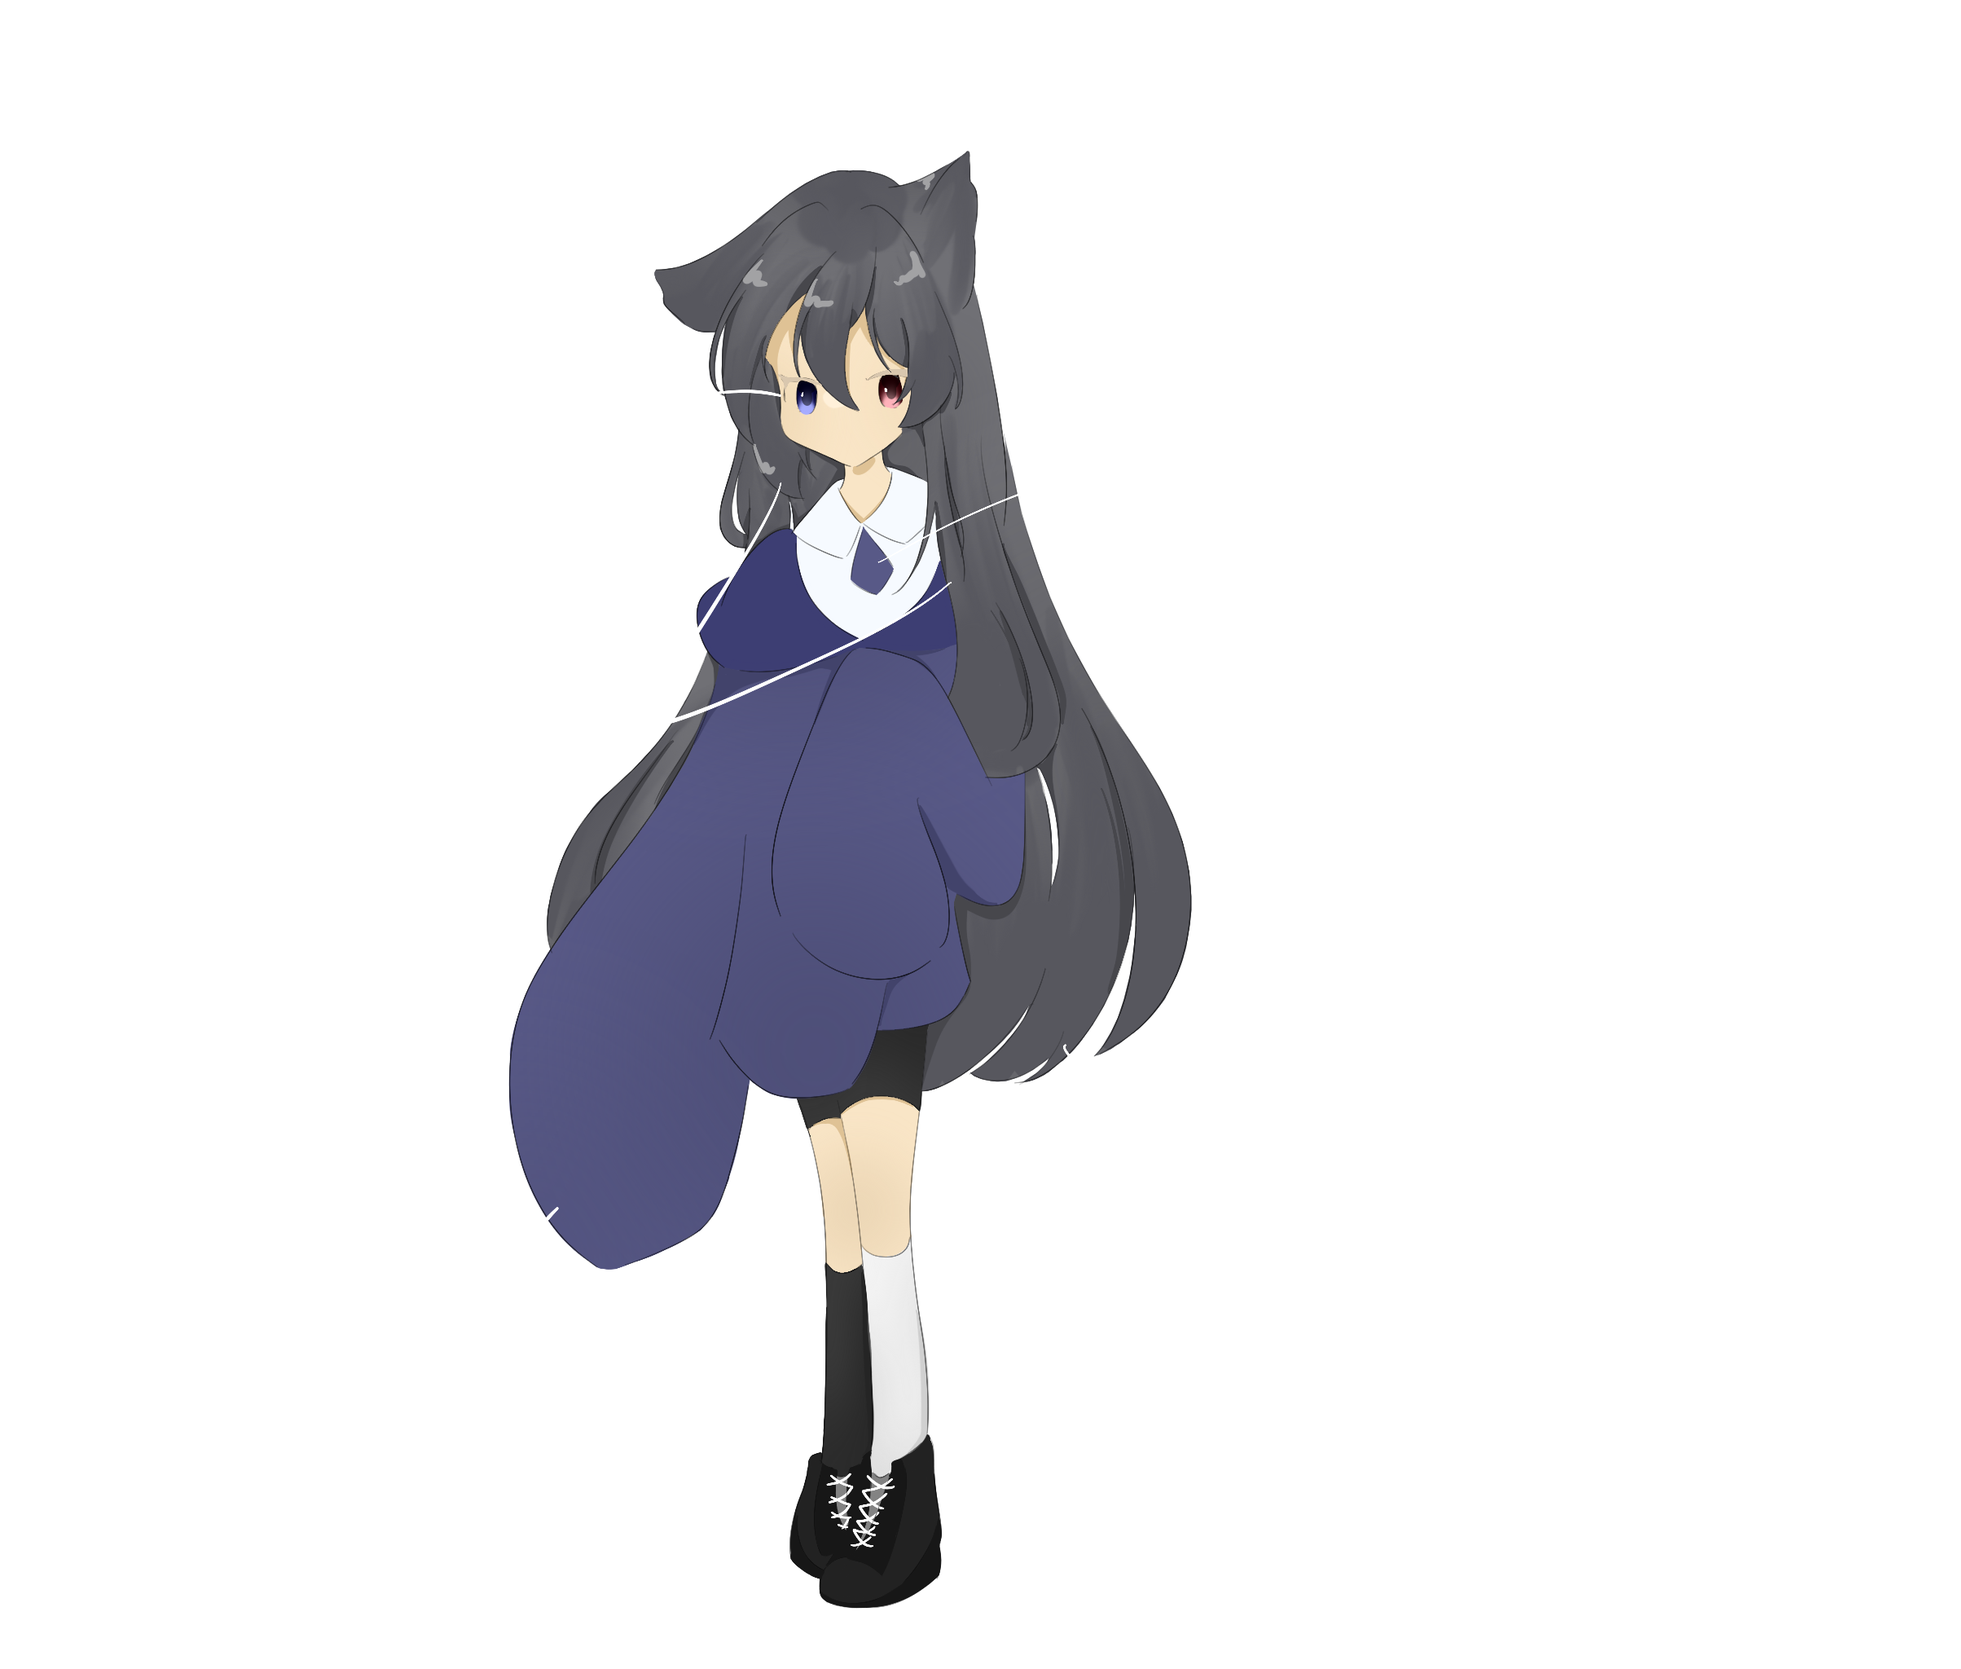
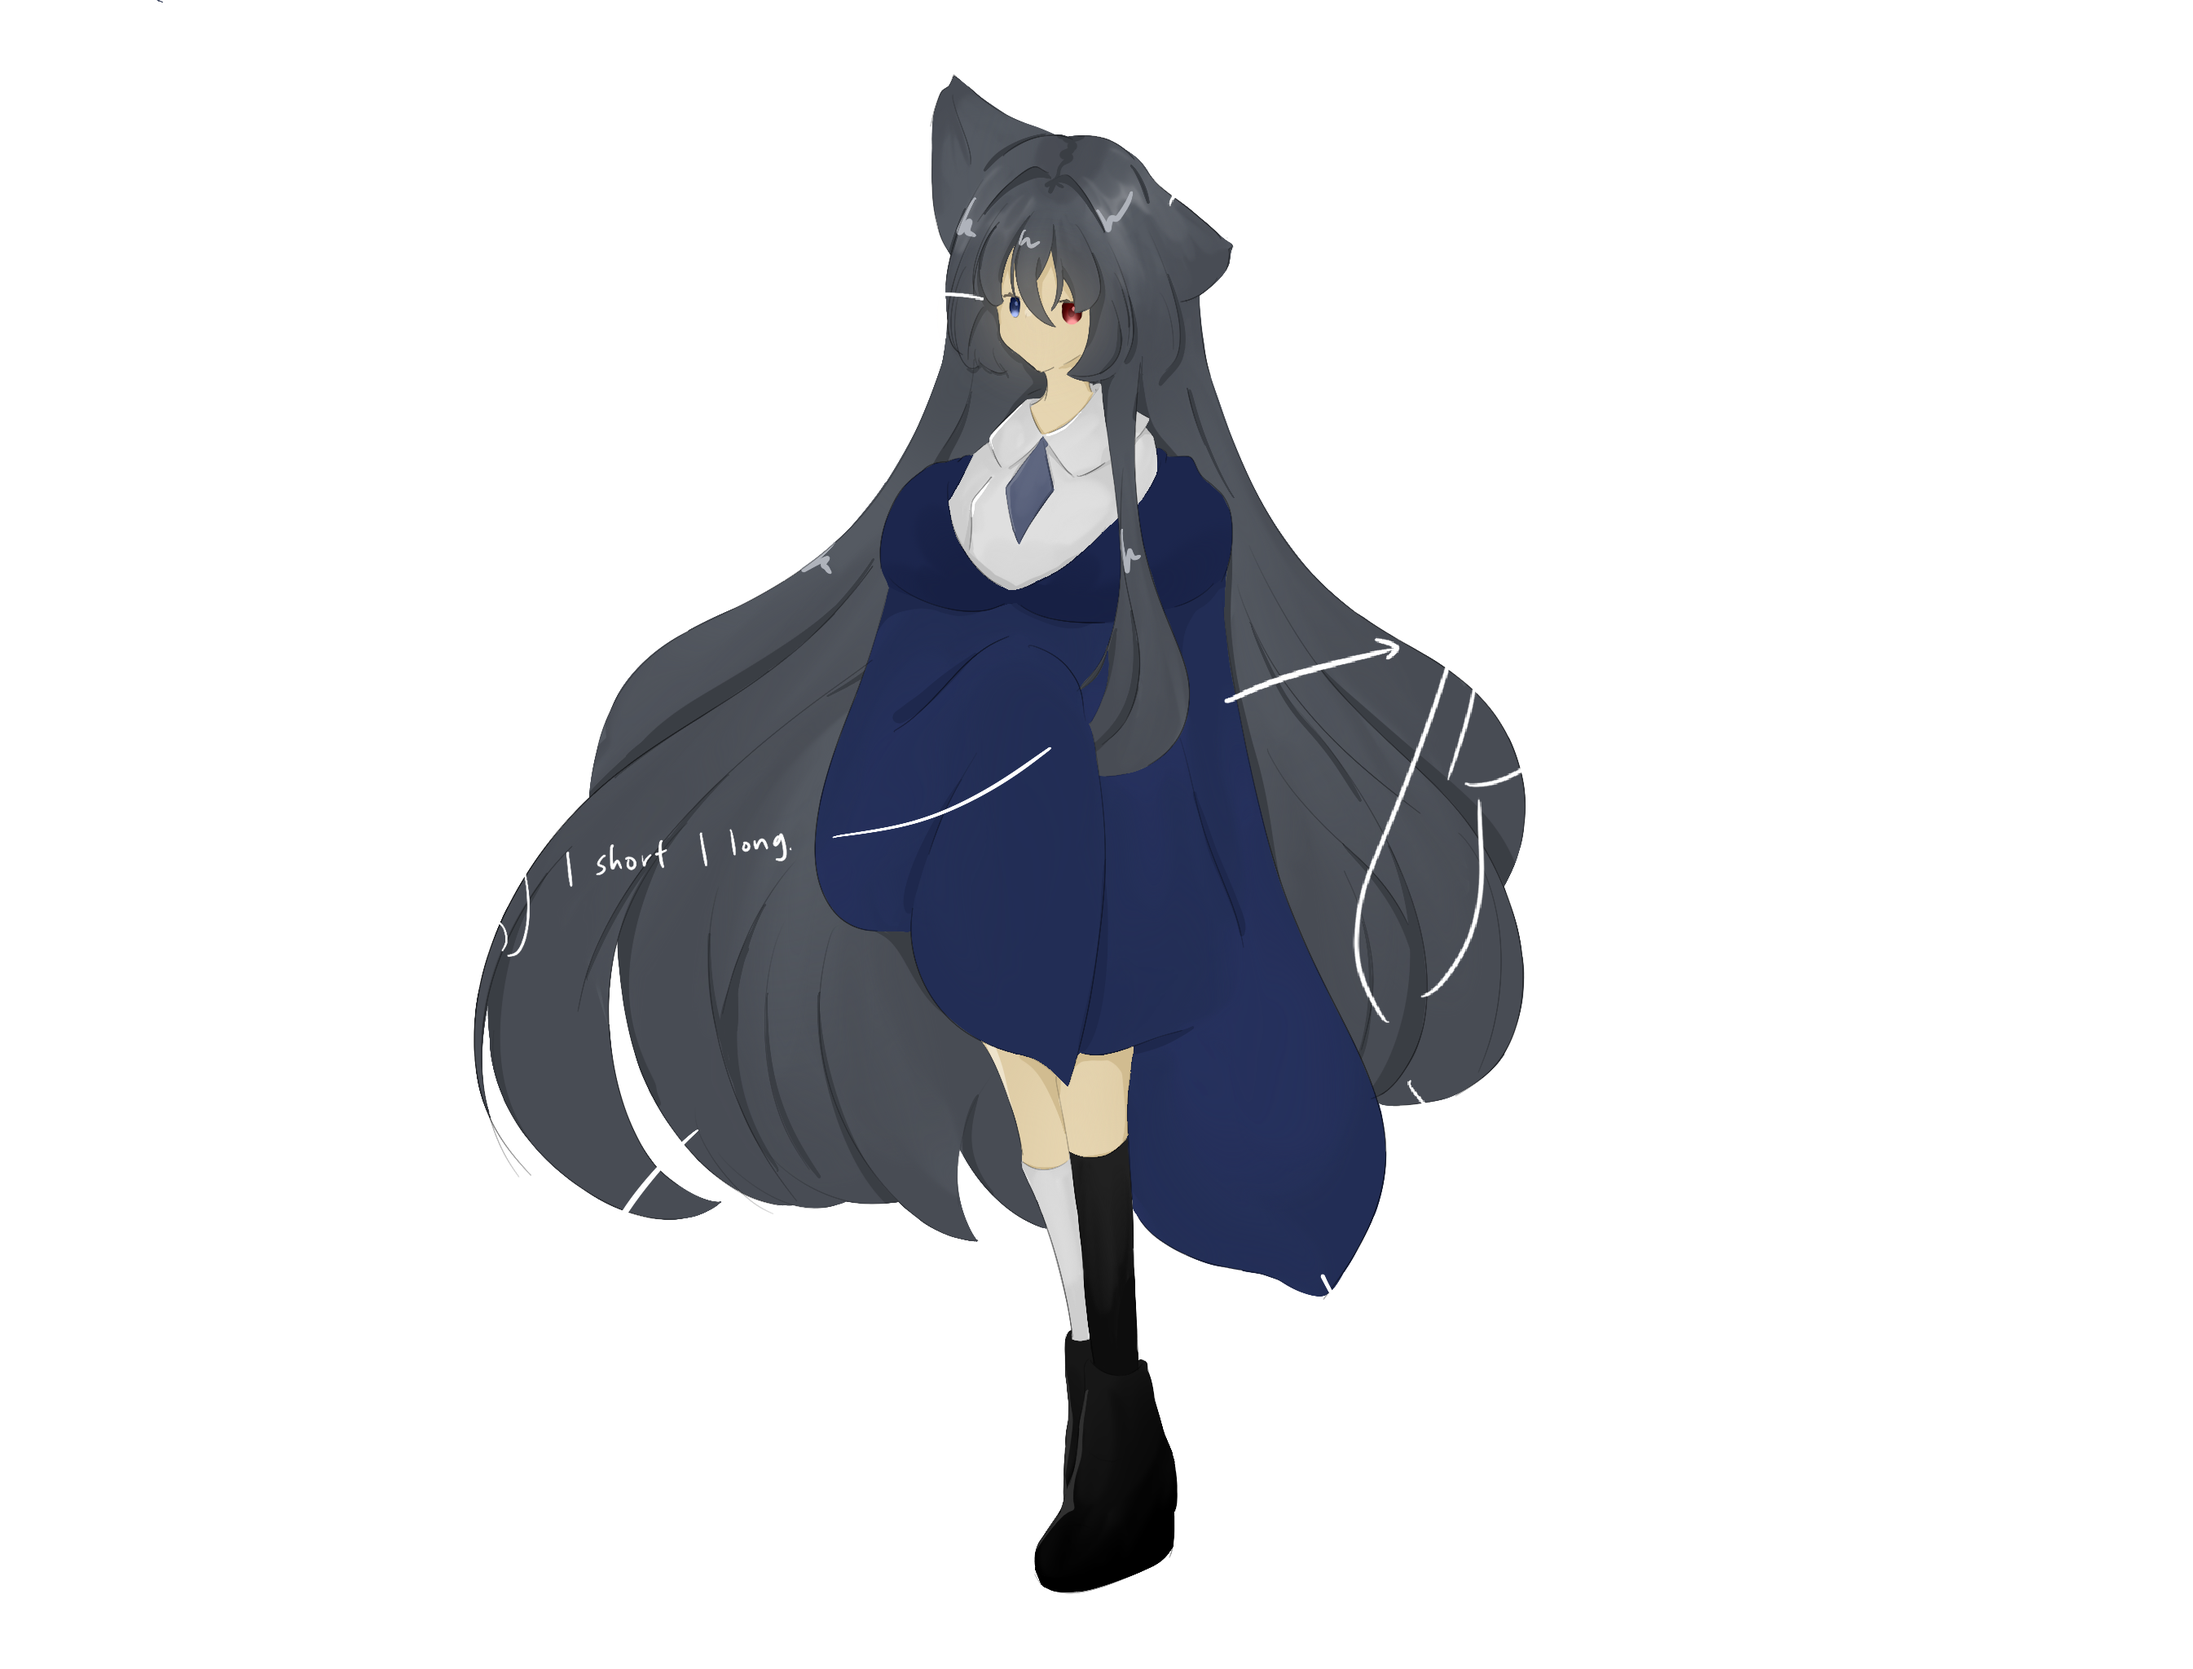
updated info to not be misinformation

Changed region(s): [[0.2181, 0.0312, 0.7167, 0.9688]]

diff --git a/docs/shatteredworld.html b/docs/shatteredworld.html
@@ -35,9 +35,8 @@
 
             <div class="container">
                 <h3 class="project-status-wip">Current Status: WIP (Work in Progress)</h3>
-
                 <h3>Itch.io Page</h3>
-                <a href="https://not-littlewhale.itch.io/2-worlds" class="btn btn-secondary" target="_blank">Itch.io Page >></a>
+                <p> - soon: never or in about 10 years -</p>
             </div>
         </section>
 
@@ -49,23 +48,20 @@
                             <h3>Trailer</h3>
                             <p> - no trailer available as of now -</p>
                             <h3>Introduction</h3>
+                            <p>-- wip page --</p>
                             <p>in 2 Worlds, the game world was half in ruin due to a error in the area deletion code. while a new fixed build can fix the problem, the older builds are out of reach and cannot be fixed.</p>
                             <p>however...</p>
                             <p>welcome to Shattered World, where you repair a broken game world!</p>
-                            <p>well, the demo of it, at least.</p>
-                            <p>saving a world isn't something you would naturally know how to do (unless you're some <s>poorly written</s> anime protagonist, I guess), right?</p>
-                            <p>note that this game, while being the demo of the main game, have its own story and serves as more of a prequel to it</p>
                             <h3>General information</h3>
                             <div class="intro-list">
                                 <li><span class="title">Genre:</span> Puzzle, Meta</li>
-                                <li><span class="title">Estimated Game Length:</span> 30 min</li>
+                                <li><span class="title">Estimated Game Length:</span> unknown</li>
                                 <li><span class="title">Language:</span> English (no translation provided)</li>
                             </div>
                             <h3>Additional information (Technical Information? idk)</h3>
                             <div class="intro-list">
                                 <li><span class="title">Programming Language:</span> Python (arcade, os)</li>
                             </div>
-                            <a href="https://sites.google.com/view/2worldsofficial/home">old website</a>
 
                     </div>
                 </div>
@@ -73,11 +69,7 @@
                 <div>
                     <div class="game-screenshot-grid">
                         <h3>Screenshots</h3>
-                        <img src="images/game_ss/sw_demo/sw_ss_mainmenu.png">
-                        <img src="images/game_ss/sw_demo/sw_ss_talk.png">
-                        <img src="images/game_ss/sw_demo/sw_ss_arearestore.png">
-                        <img src="images/game_ss/sw_demo/sw_ss_cutscenerestore.png">
-
+                        <p> - no screenshots available as of now -</p>
 
                     </div>
                 </div>

diff --git a/docs/projects.html b/docs/projects.html
@@ -28,14 +28,28 @@
                 <h2>My Games</h2>
                 <p class="projects-subtitle">woah, there's more than 1 now</p>
                 <div class="projects-display">
-                    <a href="shatteredworlddemo.html">
+
+                    <a href="shatteredworld.html">
                     <div class="projects-display-item">
                         <img src="images/banner_sw.png">
                         <div>
                             <h4>2 Worlds: Shattered World</h4>
-                            <p class="status-wip">Status: WIP (Demo: Playtesting)</p>
-                            <p class="subtext">a meta-themed puzzle game where you fix the broken game world</p>
-                            <p>unironically proud of this one | some fox came in and ate the silliness, crying as a gc rn</p>
+                            <p class="status-wip">Status: WIP</p>
+                            <p class="subtext">a puzzle game where you restore the broken game world!</p>
+                            <p>unironically proud of this one.. maybe | some fox came in and ate the silliness, crying as a gc rn</p>
+
+                        </div>
+                    </div>
+                </a>
+
+                    <a href="shatteredworlddemo.html">
+                    <div class="projects-display-item">
+                        <img src="images/banner_sw.png">
+                        <div>
+                            <h4>2 Worlds: Shattered World (Before the Story)</h4>
+                            <p class="status-released">Status: Released!</p>
+                            <p class="subtext">prequel and demo of Shattered World: the upcoming main game!</p>
+                            <p>just to test the waters.</p>
                         </div>
                     </div>
                 </a>

diff --git a/docs/shatteredworlddemo.html b/docs/shatteredworlddemo.html
@@ -48,8 +48,7 @@
                 <div>
                     <div class="introduction-text">
                             <h3>Trailer</h3>
-                            <p> - no trailer available as of now -</p>
-                            <h3>Introduction</h3>
+                            <iframe width="560" height="315" src="https://www.youtube.com/embed/HlbFMFwYboY?si=2DFTLwupjdgTu5U8" title="YouTube video player" frameborder="0" allow="accelerometer; autoplay; clipboard-write; encrypted-media; gyroscope; picture-in-picture; web-share" referrerpolicy="strict-origin-when-cross-origin" allowfullscreen></iframe>                            <h3>Introduction</h3>
                             <p>in 2 Worlds, the game world was half in ruin due to a error in the area deletion code. while a new fixed build can fix the problem, the older builds are out of reach and cannot be fixed.</p>
                             <p>however...</p>
                             <p>welcome to Shattered World, where you repair a broken game world!</p>

diff --git a/docs/osu_skin_uf.html b/docs/osu_skin_uf.html
@@ -46,9 +46,12 @@
                         <li><span class="title">Current Status:</span> Mostly Completed</li>
                         <li><span class="title">Title:</span> Little Whale's Unnamed Futuristic Skin (Unnamed Futuristic for short)</li>
                         <li><span class="title">Skinned Modes:</span> osu!mania, osu!std*</li>
+                        <li><span class="title">Supported Resolution:</span> SD*</li>
                         <li><span class="title">Description:</span> not based on anything, mainly focusing on clean visuals and playability.</li>
                     </div>
                     <p>* standard is "technically skinned" but there might be missing assets as I don't play standard.</p>
+                    <p>* there are HD assets, but might be outdated compared to the SD version.</p>
+
             </div>
 
             <section class="skin-display">

diff --git a/docs/index.html b/docs/index.html
@@ -58,7 +58,7 @@
             <div class="container">
                 <h2>or maybe some stuff about myself?</h2>
                 <p>self introduction, socials, etc</p>
-                <a href="contact.html" class="btn btn-secondary">My About Page</a>
+                <a href="about.html" class="btn btn-secondary">My About Page</a>
             </div>
         </section>
     </main>
